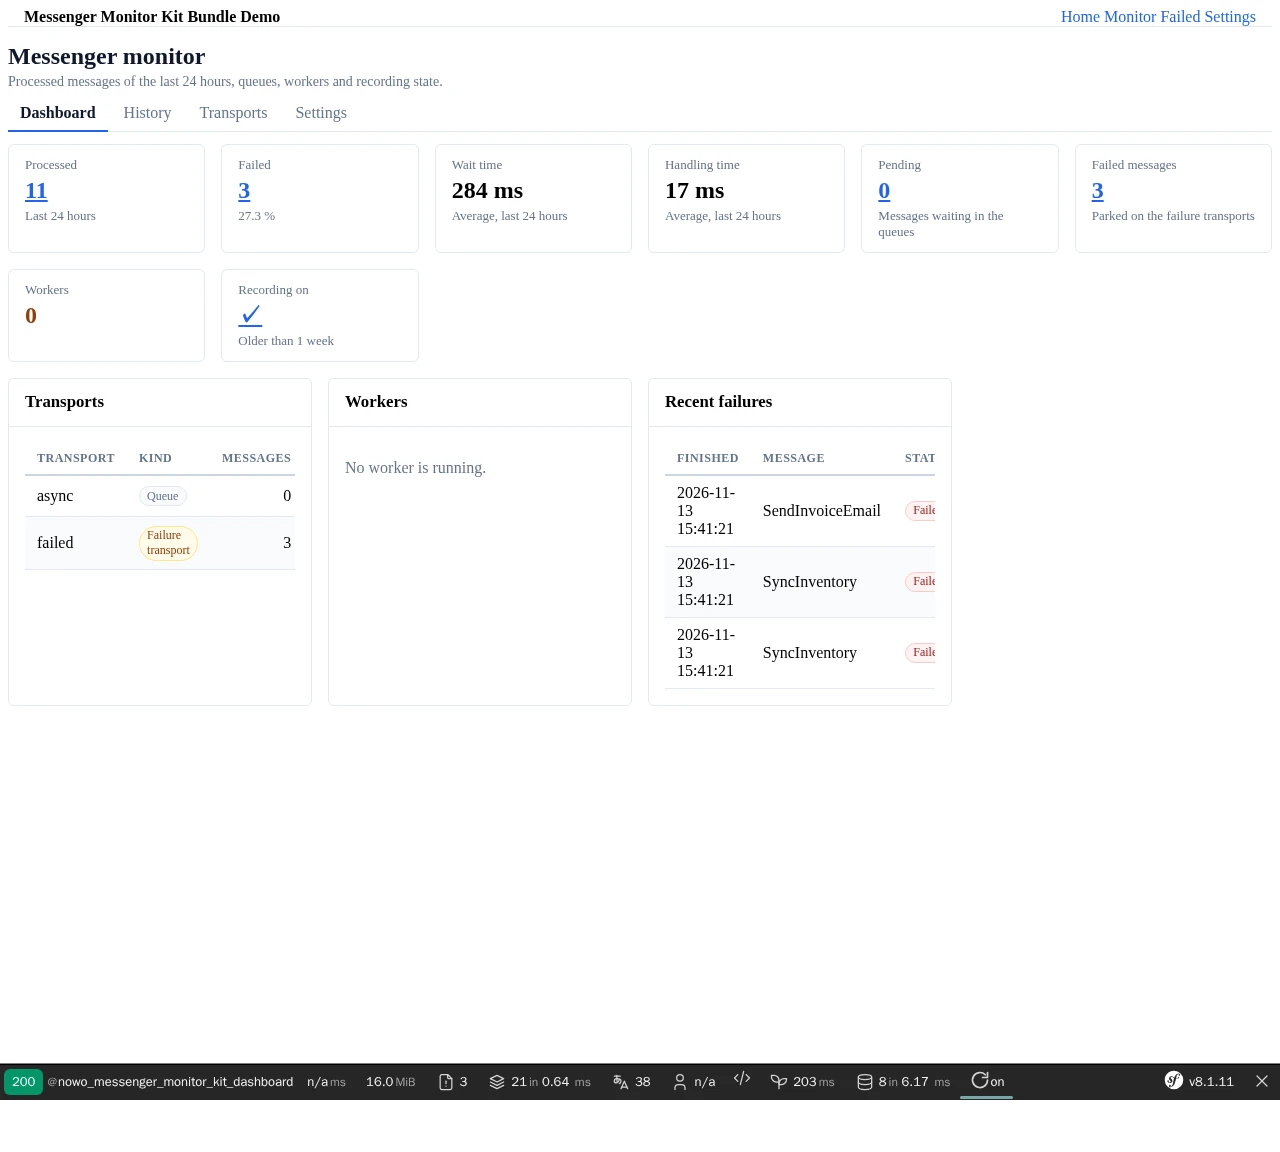
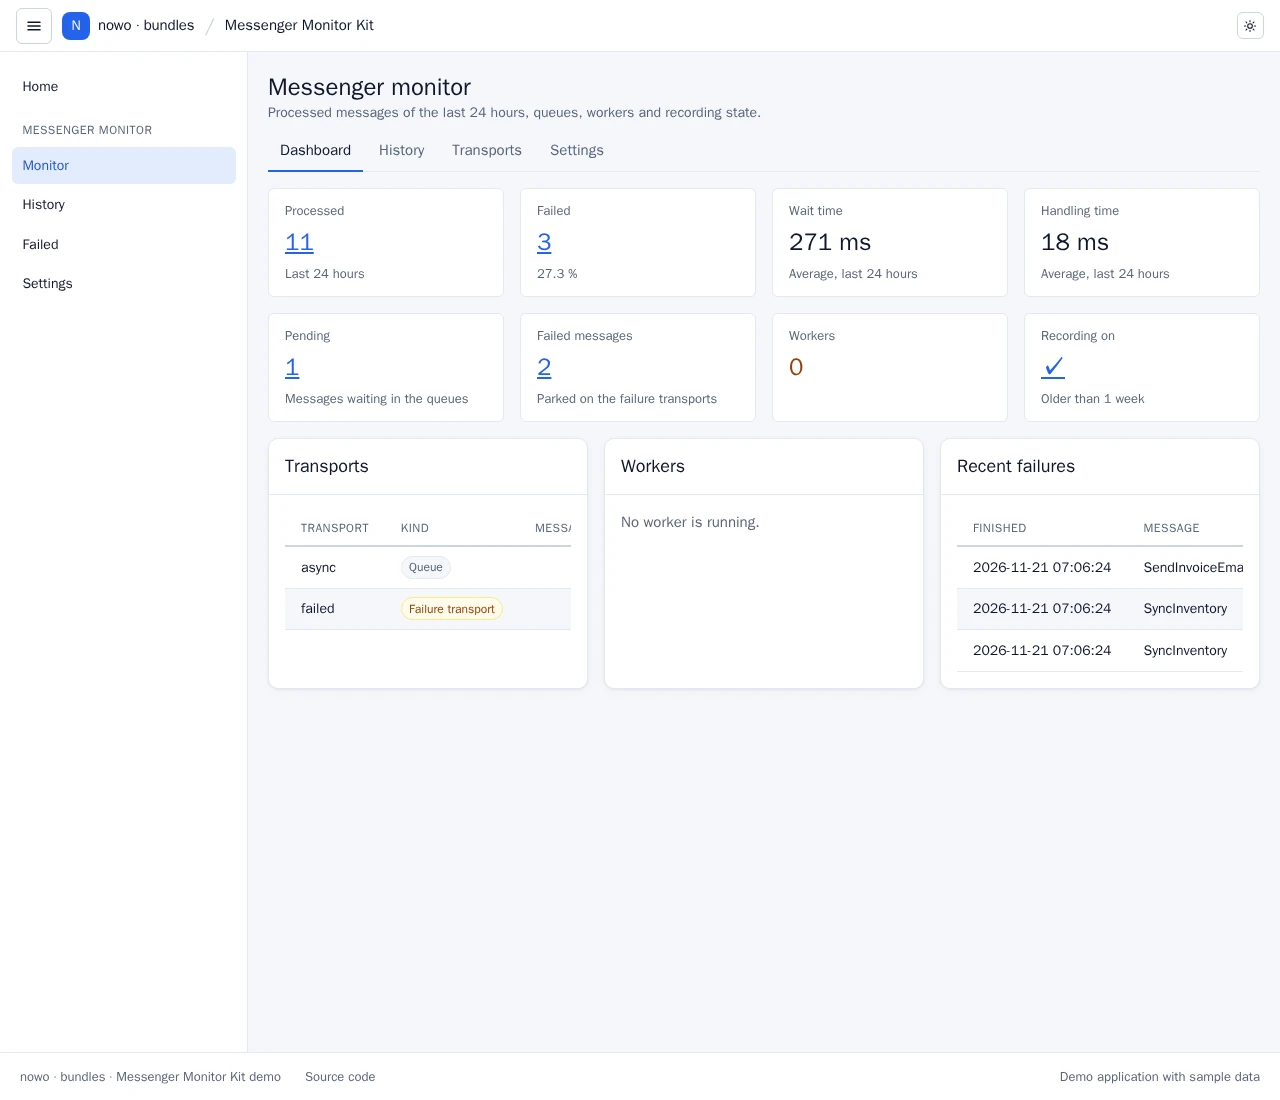
chore(demo): run the demo in UiKit's demo platform shell (#29)

diff --git a/demo/symfony8/e2e/tests/demo-platform.spec.ts b/demo/symfony8/e2e/tests/demo-platform.spec.ts
@@ -1,0 +1,194 @@
+import { test, expect, type Page } from '@playwright/test';
+import AxeBuilder from '@axe-core/playwright';
+
+/**
+ * UiKit demo platform shell (REQ-DEMO-014): layout grammar, demo styles, host theme tokens, framework classes, the
+ * closed phone drawer, 44 px touch targets and input borders on every demo page, plus axe (wcag2a / 2aa / 21a / 21aa,
+ * serious + critical = 0) in light and dark, desktop and phone, and the keyboard drawer pass.
+ */
+type Theme = 'light' | 'dark';
+type PageEntry = string | ((page: Page) => Promise<string>);
+
+async function prepare(_page: Page): Promise<void> {}
+
+async function setTheme(page: Page, theme: Theme): Promise<void> {
+  await page.evaluate((t) => {
+    document.documentElement.setAttribute('data-theme', t);
+    document.documentElement.setAttribute('data-bs-theme', t);
+  }, theme);
+}
+
+async function axe(page: Page): Promise<string[]> {
+  const result = await new AxeBuilder({ page }).withTags(['wcag2a', 'wcag2aa', 'wcag21a', 'wcag21aa']).exclude('.sf-toolbar').analyze();
+  return result.violations
+    .filter((v) => v.impact === 'serious' || v.impact === 'critical')
+    .map((v) => `${v.id}: ${v.nodes.map((n) => n.target.join(' ')).join(', ')}`);
+}
+
+/** The demo layout + style rules (docs/USAGE.md "Demo platform shell"; same function as the rollout brief's spec): layout grammar,
+ * no demo styles / host tokens / framework classes, closed drawer inert, 44 px targets on coarse pointers, input borders 3:1. */
+/* eslint-disable */
+// prettier-ignore
+function demoPlatformRules(): string[] {
+  const issues = [];
+  const main = document.querySelector('#nowo-ui-content');
+  const shell = document.querySelector('[data-testid="demo-platform"]');
+  if (!main || !shell) return ['no-demo-platform-shell'];
+  const visible = (el) => !!(el.offsetWidth || el.offsetHeight || el.getClientRects().length);
+  const carded = (el) => el.closest('.nowo-ui-card, [data-nowo-ui-region="table"], [data-nowo-ui-region="form"], .nowo-ui-form-panel, dialog');
+  const skip = (el) => el.closest('dialog, [data-nowo-ui-region="filters"], .nowo-ui-filters, .nowo-ui-page-header');
+
+  // Layout grammar.
+  main.querySelectorAll('table').forEach((t) => { if (!carded(t)) issues.push('table-outside-card'); });
+  main.querySelectorAll('form').forEach((f) => {
+    if (f.querySelector('input:not([type="hidden"]), select, textarea') && !carded(f) && !skip(f) && !f.closest('table')) issues.push('form-outside-card');
+  });
+  const primaries = [...main.querySelectorAll('.nowo-ui-btn--primary')].filter((b) => visible(b) && !b.closest('table, dialog, [data-nowo-ui-region="filters"], .nowo-ui-filters, form'));
+  if (primaries.length > 1) issues.push(`primary-buttons:${primaries.length}`);
+  const header = main.querySelector('.nowo-ui-page-header');
+  const flashes = main.querySelector('.nowo-ui-flashes');
+  if (header && flashes && (flashes.compareDocumentPosition(header) & Node.DOCUMENT_POSITION_FOLLOWING)) issues.push('flashes-before-page-header');
+  if (document.documentElement.scrollWidth > document.documentElement.clientWidth + 1) issues.push('page-scrolls-horizontally');
+
+  // Styles: no demo styles, no host theme tokens, no CDN / foreign stylesheet, no framework classes inside the shell.
+  document.querySelectorAll('style').forEach((s) => {
+    if (s.matches('[data-nowo-ui-theme-tokens], [data-nowo-ui-appearance]')) { issues.push('host-theme-tokens'); return; }
+    if (!/sf-toolbar|sfwdt|sf-minitoolbar|sf-display/.test(s.textContent || '') && !s.closest('[id^="sfwdt"], .sf-toolbar')) issues.push('style-element');
+  });
+  document.querySelectorAll('link[rel="stylesheet"]').forEach((l) => {
+    const path = new URL(l.href, location.href).pathname;
+    if (!path.startsWith('/bundles/') && !path.startsWith('/_wdt/') && !path.startsWith('/_profiler/')) issues.push(`stylesheet:${path}`);
+  });
+  const framework = /^(acme-.*|nav-tabs|nav-link|nav-item|alert|alert-.*|form-check.*|form-control|form-select|form-label|btn|btn-.*|card|card-.*|badge|row|col|col-.*|table|table-.*)$/;
+  shell.querySelectorAll('[class]').forEach((el) => {
+    for (const c of el.classList) { if (framework.test(c)) { issues.push(`framework-class:${c}`); break; } }
+  });
+
+  // Drawer: below 901 px a closed drawer is inert and the burger says so.
+  const aside = shell.querySelector('[data-nowo-ui-aside]');
+  if (aside && window.innerWidth < 901) {
+    const open = shell.classList.contains('is-aside-open-mobile');
+    if (!open && !aside.hasAttribute('inert')) issues.push('drawer-not-inert');
+    shell.querySelectorAll('[data-nowo-ui-burger]').forEach((b) => {
+      if (visible(b) && b.getAttribute('aria-expanded') !== (open ? 'true' : 'false')) issues.push('burger-state');
+    });
+  }
+
+  // Touch: 44 px targets on coarse pointers (checkbox / radio 24 px, their label carries the 44 px row).
+  if (window.matchMedia('(pointer: coarse)').matches) {
+    const controls = [...shell.querySelectorAll('.nowo-ui-btn, button, summary, input:not([type="hidden"]), select, textarea, [role="tab"], .nowo-ui-aside__link, .nowo-ui-demo-platform__locale')]
+      .filter((el) => visible(el) && !el.closest('[inert], table, .ts-control'));
+    for (const el of controls) {
+      const r = el.getBoundingClientRect();
+      const small = el.matches('input[type="checkbox"], input[type="radio"]') ? r.height < 24 || r.width < 24 : r.height < 43.5;
+      if (small) { issues.push(`target-under-44px:${(el.className && String(el.className).split(' ')[0]) || el.tagName.toLowerCase()}`); }
+    }
+  }
+
+  // Inputs: boundary 3:1 or more against the surface behind them (WCAG 1.4.11).
+  const rgb = (c) => { const m = c.match(/[\d.]+/g); return m ? m.slice(0, 4).map(Number) : null; };
+  const lum = (c) => { const v = c.slice(0, 3).map((x) => { const s = x / 255; return s <= 0.03928 ? s / 12.92 : ((s + 0.055) / 1.055) ** 2.4; }); return 0.2126 * v[0] + 0.7152 * v[1] + 0.0722 * v[2]; };
+  const bgOf = (el) => { for (let n = el.parentElement; n; n = n.parentElement) { const c = rgb(getComputedStyle(n).backgroundColor); if (c && (c.length < 4 || c[3] > 0)) return c; } return [255, 255, 255]; };
+  shell.querySelectorAll('input:not([type="hidden"], [type="checkbox"], [type="radio"]), select, textarea').forEach((el) => {
+    if (!visible(el) || el.closest('[inert]')) return;
+    const border = rgb(getComputedStyle(el).borderTopColor);
+    if (!border) return;
+    const a = lum(border); const b = lum(bgOf(el));
+    if ((Math.max(a, b) + 0.05) / (Math.min(a, b) + 0.05) < 3) issues.push(`input-border-under-3:1:${el.id || el.name || el.tagName.toLowerCase()}`);
+  });
+
+  return [...new Set(issues)];
+}
+
+
+const PAGES: PageEntry[] = [
+  '/',
+  '/admin/messenger',
+  '/admin/messenger/history',
+  '/admin/messenger/transports/failed',
+  '/admin/messenger/settings',
+  async (page: Page) => {
+    await page.goto('/admin/messenger/transports/failed');
+    return (await page.locator('[data-testid="mmk-transport"] tbody tr a:has-text("View")').first().getAttribute('href')) as string;
+  },
+];
+
+const BUNDLE_OWNED: Array<{ path: RegExp; rule: RegExp }> = [{ path: /\/admin\/messenger\/transports\/failed\/messages\/\d+/, rule: /^scrollable-region-focusable/ }];
+
+/** Findings on a bundle's own page are reported as bundle-owned (not patched in the demo): they are filtered here, by path and rule. */
+function demo(url: string, issues: string[]): string[] {
+  const path = new URL(url).pathname;
+  return issues.filter((issue) => !BUNDLE_OWNED.some((o) => o.path.test(path) && o.rule.test(issue)));
+}
+
+async function resolvePath(page: Page, entry: PageEntry): Promise<string> {
+  return typeof entry === 'function' ? entry(page) : entry;
+}
+
+test.describe('demo platform rules', () => {
+  // Device-emulating projects (phone / iphone ...) set their own context: the viewport blocks below do it explicitly.
+  test.beforeEach(async ({ page }, testInfo) => {
+    test.skip(/phone/i.test(testInfo.project.name), 'viewport blocks set their own context');
+    // The Symfony toolbar is dev chrome, never part of the rules or axe runs.
+    await page.addInitScript(() => {
+      document.addEventListener('DOMContentLoaded', () => {
+        const s = document.createElement('style');
+        s.textContent = '.sf-toolbar,.sf-minitoolbar,[id^="sfwdt"]{display:none!important}';
+        document.head.appendChild(s);
+      });
+    });
+  });
+
+  test('desktop 1440 px', async ({ page }) => {
+    await page.setViewportSize({ width: 1440, height: 900 });
+    await prepare(page);
+    for (const path of PAGES) {
+      await page.goto(await resolvePath(page, path));
+      expect(demo(page.url(), await page.evaluate(demoPlatformRules)), page.url()).toEqual([]);
+    }
+  });
+
+  test.describe('phone 390 px, touch', () => {
+    test.use({ viewport: { width: 390, height: 844 }, isMobile: true, hasTouch: true });
+
+    test('rules on every page', async ({ page }) => {
+      await prepare(page);
+      for (const path of PAGES) {
+        await page.goto(await resolvePath(page, path));
+        expect(demo(page.url(), await page.evaluate(demoPlatformRules)), page.url()).toEqual([]);
+      }
+    });
+
+    test('keyboard drawer pass', async ({ page }) => {
+      await prepare(page);
+      await page.goto(await resolvePath(page, PAGES[0]));
+      const aside = page.locator('[data-nowo-ui-aside]');
+      await expect(aside).toHaveAttribute('inert', '');
+      const burger = page.locator('[data-nowo-ui-burger]').first();
+      await expect(burger).toHaveAttribute('aria-expanded', 'false');
+      await burger.focus();
+      await page.keyboard.press('Enter');
+      await expect(page.getByTestId('demo-platform')).toHaveClass(/is-aside-open-mobile/);
+      await expect(page.locator('[data-nowo-ui-aside] :focus')).toHaveCount(1);
+      await expect(page.locator('.nowo-ui-main')).toHaveAttribute('inert', '');
+      await expect(page.locator('html')).toHaveClass(/nowo-ui-drawer-open/);
+      await page.keyboard.press('Escape');
+      await expect(burger).toBeFocused();
+      await expect(aside).toHaveAttribute('inert', '');
+    });
+  });
+
+  for (const theme of ['light', 'dark'] as Theme[]) {
+    for (const [name, width] of [['desktop', 1440], ['phone', 390]] as const) {
+      test(`axe clean: ${name}, ${theme}`, async ({ page }) => {
+        await page.setViewportSize({ width, height: 900 });
+        await prepare(page);
+        for (const path of PAGES) {
+          await page.goto(await resolvePath(page, path));
+          await setTheme(page, theme);
+          expect(demo(page.url(), await axe(page)), page.url()).toEqual([]);
+        }
+      });
+    }
+  }
+});

diff --git a/demo/symfony8/e2e/tests/helpers.ts b/demo/symfony8/e2e/tests/helpers.ts
@@ -1,25 +1,8 @@
 import { type Page } from '@playwright/test';
 
-/** Wait until the Symfony Web Debug Toolbar has finished loading (optional outside dev). */
+/** Hides the Symfony Web Debug Toolbar so it never appears in a screenshot (the shell frames every page). */
 export async function waitForWebProfiler(page: Page): Promise<void> {
-  await page.waitForSelector('.sf-toolbar', { state: 'visible', timeout: 20000 }).catch(() => undefined);
-  const mini = page.locator('.sf-minitoolbar a').first();
-  if (await mini.isVisible().catch(() => false)) {
-    await mini.click();
-  }
-  await page
-    .waitForFunction(
-      () => {
-        const bar = document.querySelector('.sf-toolbar') as HTMLElement | null;
-        if (!bar || bar.offsetParent === null) {
-          return true;
-        }
-        return !!document.querySelector('.sf-toolbar-block');
-      },
-      { timeout: 25000, polling: 250 },
-    )
-    .catch(() => undefined);
-  await new Promise((r) => setTimeout(r, 400));
+  await page.addStyleTag({ content: '.sf-toolbar,.sf-minitoolbar,[id^="sfwdt"]{display:none!important}' });
 }
 
 /** Rows of a monitor list page (`data-testid` of the page section). */

diff --git a/docs/CHANGELOG.md b/docs/CHANGELOG.md
@@ -30,6 +30,7 @@ All notable changes to this project are documented here. The format follows
 
 ### Changed
 
+- Demo: runs in UiKit's demo platform shell (`nowo-tech/ui-kit-bundle` ^2.60); the demo's own header is gone and the pages use the shell page headers and section cards. Demo only, no bundle change.
 - Requires `nowo-tech/transaction-doctrine` ^1.8.1 (fixes GHSA-9wh3-m3m5-jffx and GHSA-65w2-9r4h-848g).
 
 ## [1.3.0] - 2026-11-19
